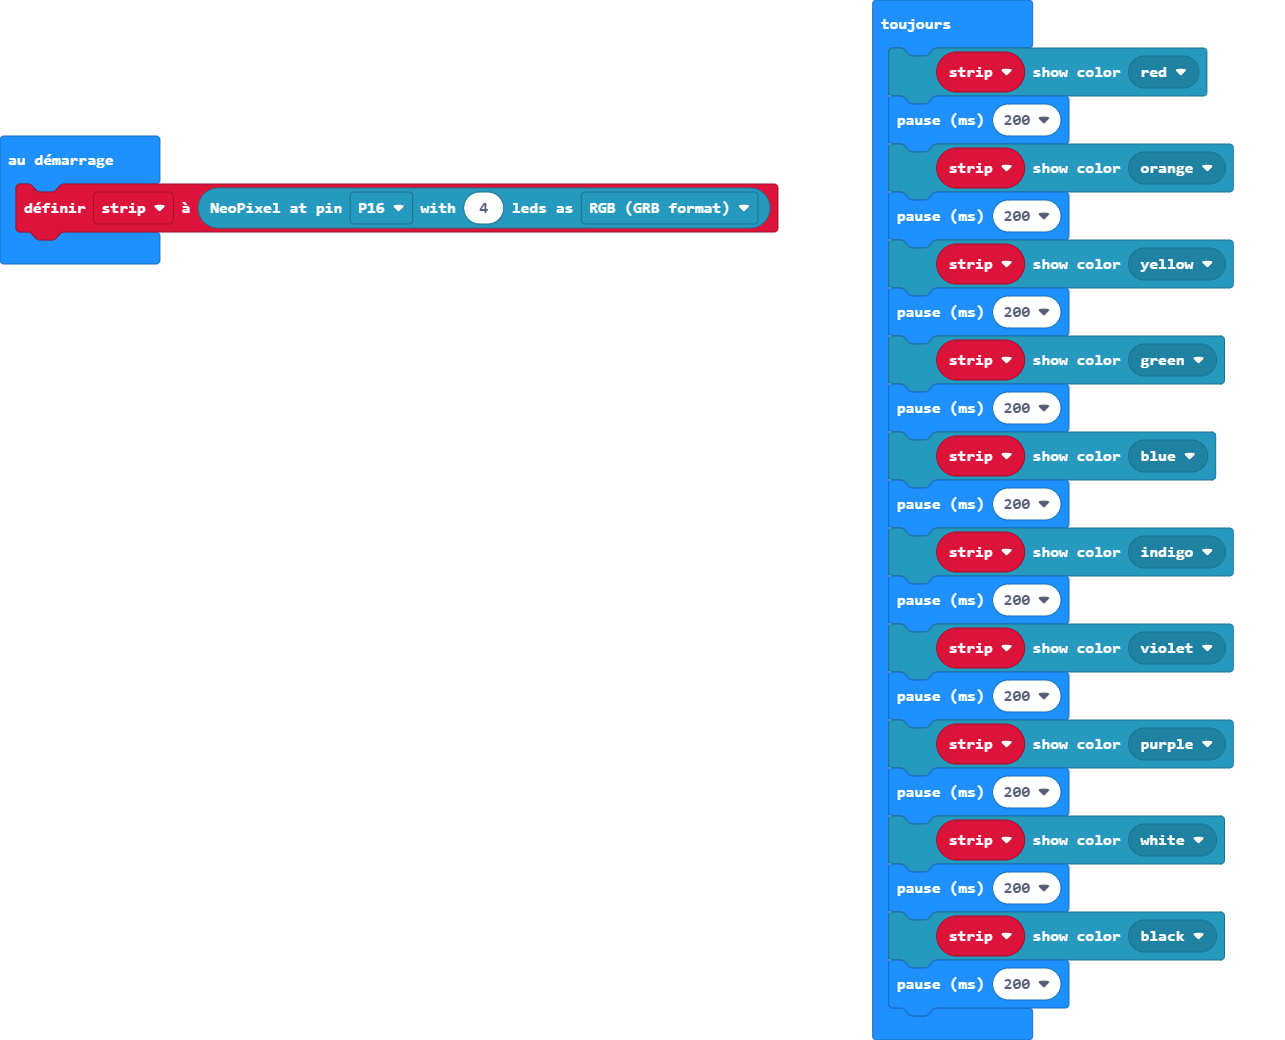
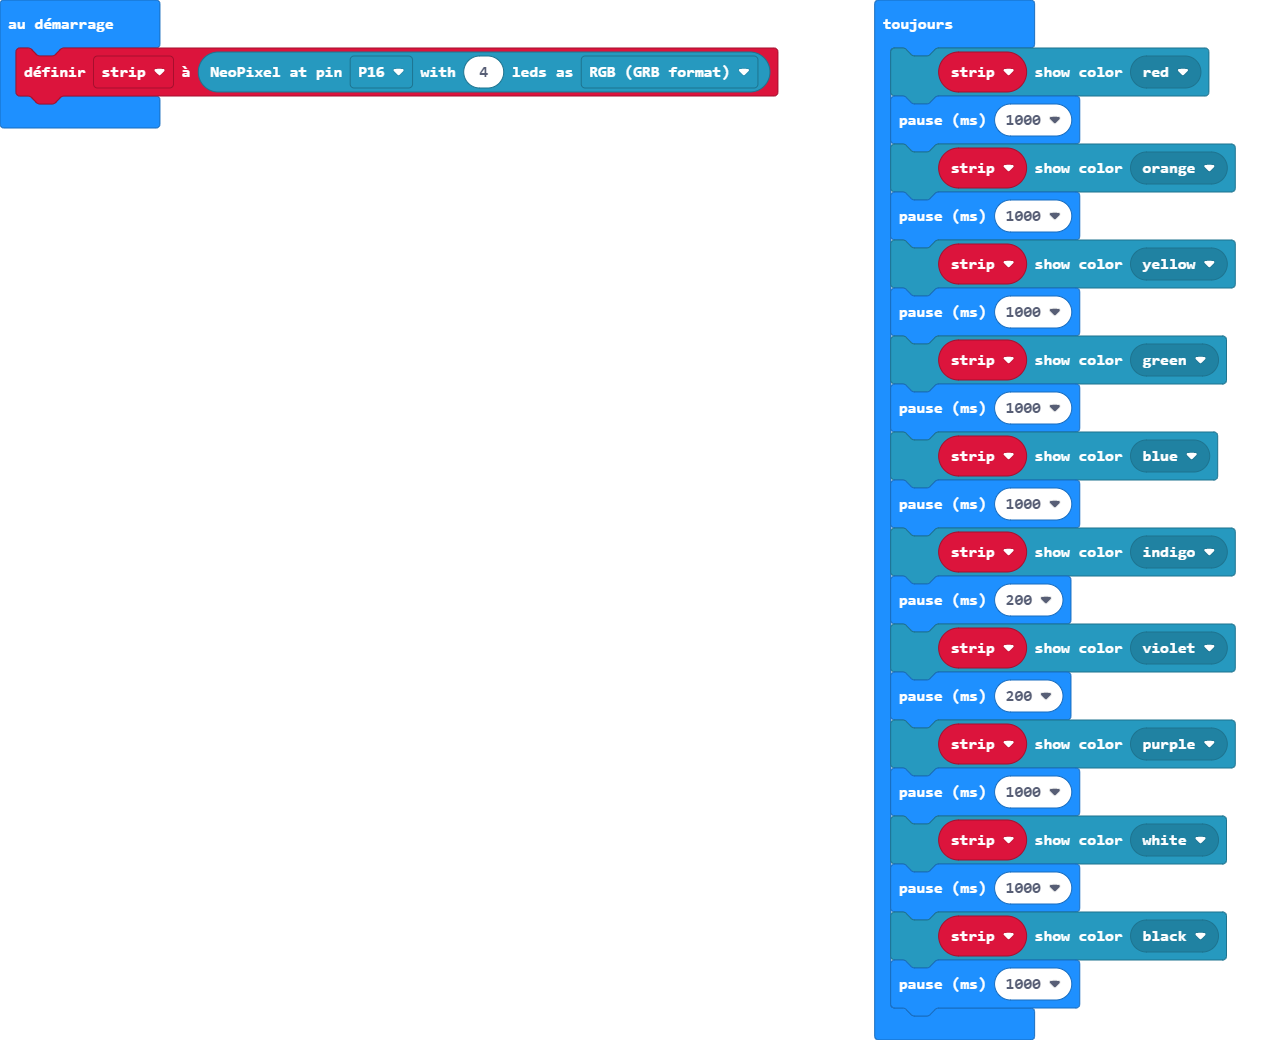
Tempo passe à 1 seconde

diff --git a/main.ts b/main.ts
@@ -1,23 +1,23 @@
 let strip = neopixel.create(DigitalPin.P16, 4, NeoPixelMode.RGB)
 basic.forever(function () {
     strip.showColor(neopixel.colors(NeoPixelColors.Red))
-    basic.pause(200)
+    basic.pause(1000)
     strip.showColor(neopixel.colors(NeoPixelColors.Orange))
-    basic.pause(200)
+    basic.pause(1000)
     strip.showColor(neopixel.colors(NeoPixelColors.Yellow))
-    basic.pause(200)
+    basic.pause(1000)
     strip.showColor(neopixel.colors(NeoPixelColors.Green))
-    basic.pause(200)
+    basic.pause(1000)
     strip.showColor(neopixel.colors(NeoPixelColors.Blue))
-    basic.pause(200)
+    basic.pause(1000)
     strip.showColor(neopixel.colors(NeoPixelColors.Indigo))
     basic.pause(200)
     strip.showColor(neopixel.colors(NeoPixelColors.Violet))
     basic.pause(200)
     strip.showColor(neopixel.colors(NeoPixelColors.Purple))
-    basic.pause(200)
+    basic.pause(1000)
     strip.showColor(neopixel.colors(NeoPixelColors.White))
-    basic.pause(200)
+    basic.pause(1000)
     strip.showColor(neopixel.colors(NeoPixelColors.Black))
-    basic.pause(200)
+    basic.pause(1000)
 })
